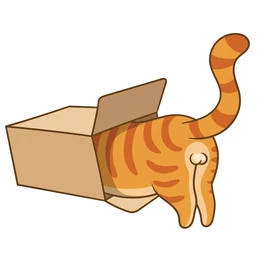
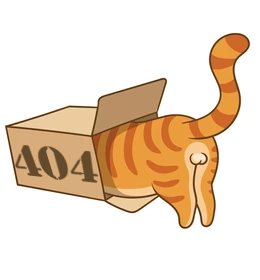
loader and suspence

Changed region(s): [[0.0615, 0.5143, 0.3692, 0.6571]]

diff --git a/src/views/HomeView.vue b/src/views/HomeView.vue
@@ -1,67 +1,26 @@
 
 <template>
     <div class="main-wrapper">
-        <div class="controls-wrapper">
-            <div class="button-add">
-                <MyModalButton :submitAction="submitActions.ADD"/>
+        <Suspense>
+             <Table />
+            <template #fallback>
+                <div class="spinner">
+                    <BounceLoader :loading="SpinnerOpts.loading" :color="SpinnerOpts.color" :size="SpinnerOpts.size"></BounceLoader>
                 </div>
-        
-            <div class="filter">
-            <div class="filter__type">
-
-                            <label class="filter__label" for="type">TYPE:</label>
-                                <select class="filter__select" name="select" id="type" v-model="type">
-                                    <option value="">ALL</option>
-                                    <option value="gadgets">gadgets</option>
-                                    <option value="clothes">clothes</option>
-                                    <option value="medicines">medicines</option>
-                                    <option value="drinks">drinks</option>
-                                    <option value="other">other</option>
-                                </select>
-            </div>
-            <div class="filter__date">
-
-                <label class="filter__label" for="date">ORDER:</label>
-                    <select class="filter__select" name="select" id="date" v-model="date">
-                        <option value="Asc">Former</option>
-                        <option value="Desc" selected>Recent</option>
-                    </select>
-                </div>
-                </div>
-        </div>
-
-        <Table :requests="filterRequests(type, date)"/>
+            </template>
+        </Suspense>
     </div>
- 
-
 </template>
 
 
 <script setup>
-
-import {useRequestsStore} from '../stores/requests'
-import MyModalButton from '../components/Modal.vue';
-import {submitActions} from '../utils/submitActions'
-import { ref } from 'vue'
+import BounceLoader from 'vue-spinner/src/BounceLoader.vue'
 import Table from '../components/Table.vue';
 
-
-const store = useRequestsStore();
-
-store.getRequests() 
-
-const type = ref(null)
-const date = ref("Desc")
-
-const filterRequests = (type, date) => {
-    const orderedRequests = store.requests.sort((a, b) => date === "Asc" ? new Date(a.createdAt) - new Date(b.createdAt) : new Date(b.createdAt) - new Date(a.createdAt));
-
-    if (type) {
-        const filteredRequests = orderedRequests.filter(request => request.type === type)
-        return filteredRequests;
-    }
-
-    return orderedRequests;
+const SpinnerOpts = {
+    color: "#352f4b",
+    loading: true,
+    size: '60px'
 }
 
 </script>
@@ -73,116 +32,11 @@ const filterRequests = (type, date) => {
     padding: 0 1rem;
     width: 100%;
 }
-.controls-wrapper {
-    
+
+.spinner {
     display: flex;
-    justify-content: space-between;
-    padding: 1rem 1rem;
-    @media screen and (max-width: 768px) {
-        padding: 1rem 0;    
-    }
+    justify-content: center;
+    height: 100%;
+    align-items: center;
 }
-
-.button-add {
-    padding: 1rem 1rem;
-    @media screen and (max-width: 768px) {
-    padding: 1rem 0;
-}
-}
-
-.filter {
-display: flex;
-gap: 1rem;
-
-padding: 1rem 1rem;
-
-@media screen and (max-width: 768px) {
-    flex-direction: column;
-    align-items: flex-end;
-    padding: 1rem 0;
-    
-}
-
-    &__label {
-        margin-right: 10px;
-    }
-    &__select {
-        min-width: 15vw;
-        padding: 8px;
-        border: 2px solid var(--color-main-transparent);
-        border-radius: 0.5rem;
-        font-size: inherit;
-
-        transition-property: border;
-        transition-duration: 400ms;
-
-        @media screen and (max-width: 768px) {
-            min-width: 33vw;            
-        }
-
-        &:focus, 
-        &:hover {
-            outline: 0;
-            border: 2px solid var(--color-main);
-        }
-
-        &::placeholder {
-            opacity: 0.5;
-            font-style: italic;
-        }
-    }
-
-    &__select {
-        cursor: pointer;
-    }
-    
-}
-
-.table {
-    min-width: min-content;
-    margin-left: auto;
-    margin-right: auto;
-    margin-bottom: 1rem;
-    padding: 0 1rem;
-    border-collapse: collapse; 
-
-    &__headCell {
-        padding: 1rem;
-        text-align: left;
-        cursor: default;
-        @media screen and (max-width: 768px) {
-            padding: 0.5rem 0.2rem;           
-        }
-
-        background-color: var(--color-secondary);
-        
-    }
-
-    &__headCell:first-child { 
-        border-top-left-radius: 10px;
-        padding-left: 1rem; 
-        @media screen and (max-width: 768px) {
-                    padding-left: 0.5rem;           
-                }
-        }
-
-    &__headCell:last-child { 
-        border-top-right-radius: 10px;
-        text-align: center; 
-    }
-
-    &__headRow {
-        background-color: var(--color-secondary);
-        color: #e2e2e2;
-        padding: 1rem 0;  
-    }
-
-    &__buttonContainer {
-        padding: 5px;
-        display: flex;
-        gap: 5px;
-    }
-
-}
-
 </style>

diff --git a/src/components/Table.vue b/src/components/Table.vue
@@ -1,4 +1,33 @@
 <template>
+    <div class="controls-wrapper">
+                <div class="button-add">
+                    <MyModalButton :submitAction="submitActions.ADD"/>
+                    </div>
+        
+                <div class="filter">
+                <div class="filter__type">
+
+                                <label class="filter__label" for="type">TYPE:</label>
+                                    <select class="filter__select" name="select" id="type" v-model="type">
+                                        <option value="">ALL</option>
+                                        <option value="gadgets">gadgets</option>
+                                        <option value="clothes">clothes</option>
+                                        <option value="medicines">medicines</option>
+                                        <option value="drinks">drinks</option>
+                                        <option value="other">other</option>
+                                    </select>
+                </div>
+                <div class="filter__date">
+
+                    <label class="filter__label" for="date">ORDER:</label>
+                        <select class="filter__select" name="select" id="date" v-model="date">
+                            <option value="Asc">Former</option>
+                            <option value="Desc" selected>Recent</option>
+                        </select>
+                    </div>
+                    </div>
+            </div>
+
     <table class="table">
       
                 <tr class="table__headRow">
@@ -11,7 +40,7 @@
               </tr>
 
                  
-                    <MyViewItem v-for="request in requests" :key="request._id" :from="request.from" :to="request.to" :type="request.type" :description="request.description" :date="request.createdAt">
+                    <MyViewItem v-for="request in filterRequests(type, date)" :key="request._id" :from="request.from" :to="request.to" :type="request.type" :description="request.description" :date="request.createdAt">
                         <template #button>
                                 <div class="table__buttonContainer">
                                     <MyModalButton :request="request" :submitAction="submitActions.EDIT"/>
@@ -25,19 +54,105 @@
 </template>
 
 <script setup>
+import { useRequestsStore } from '../stores/requests'
 import MyViewItem from '../components/TableItem.vue';
 import MyModalButton from '../components/Modal.vue';
 import { submitActions } from '../utils/submitActions'
+import { ref } from 'vue'
 
-defineProps({
-    requests: {
-        type: Array,
-        required: true
+// defineProps({
+//     requests: {
+//         type: Array,
+//         required: true
+//     }
+// })
+
+const store = useRequestsStore();
+await store.getRequests()
+
+
+const type = ref(null)
+const date = ref("Desc")
+
+const filterRequests = (type, date) => {
+    const orderedRequests = store.requests.sort((a, b) => date === "Asc" ? new Date(a.createdAt) - new Date(b.createdAt) : new Date(b.createdAt) - new Date(a.createdAt));
+
+    if (type) {
+        const filteredRequests = orderedRequests.filter(request => request.type === type)
+        return filteredRequests;
     }
-})
+
+    return orderedRequests;
+}
+
 </script>
 
 <style lang="scss" scoped>
+
+.controls-wrapper {
+    
+    display: flex;
+    justify-content: space-between;
+    padding: 1rem 1rem;
+    @media screen and (max-width: 768px) {
+        padding: 1rem 0;    
+    }
+}
+
+.button-add {
+    padding: 1rem 1rem;
+    @media screen and (max-width: 768px) {
+    padding: 1rem 0;
+}
+}
+
+.filter {
+display: flex;
+gap: 1rem;
+
+padding: 1rem 1rem;
+
+@media screen and (max-width: 768px) {
+    flex-direction: column;
+    align-items: flex-end;
+    padding: 1rem 0;
+    
+}
+
+    &__label {
+        margin-right: 10px;
+    }
+    &__select {
+        min-width: 15vw;
+        padding: 8px;
+        border: 2px solid var(--color-main-transparent);
+        border-radius: 0.5rem;
+        font-size: inherit;
+
+        transition-property: border;
+        transition-duration: 400ms;
+
+        @media screen and (max-width: 768px) {
+            min-width: 33vw;            
+        }
+
+        &:focus, 
+        &:hover {
+            outline: 0;
+            border: 2px solid var(--color-main);
+        }
+
+        &::placeholder {
+            opacity: 0.5;
+            font-style: italic;
+        }
+    }
+
+    &__select {
+        cursor: pointer;
+    }
+    
+}
 .table {
     min-width: min-content;
     margin-left: auto;

diff --git a/src/views/NotFoundView.vue b/src/views/NotFoundView.vue
@@ -38,6 +38,9 @@ import { RouterLink } from 'vue-router'
 
 .glowOnHover {
     padding: 8px 16px;
+    display: block;
+    width: 100px;
+    margin: 1rem auto;
     border: none;
     outline: none;
     color: #fff;

diff --git a/src/App.vue b/src/App.vue
@@ -1,5 +1,7 @@
 <script setup>
 import { RouterLink, RouterView } from 'vue-router'
+
+
 </script>
 
 <template>
